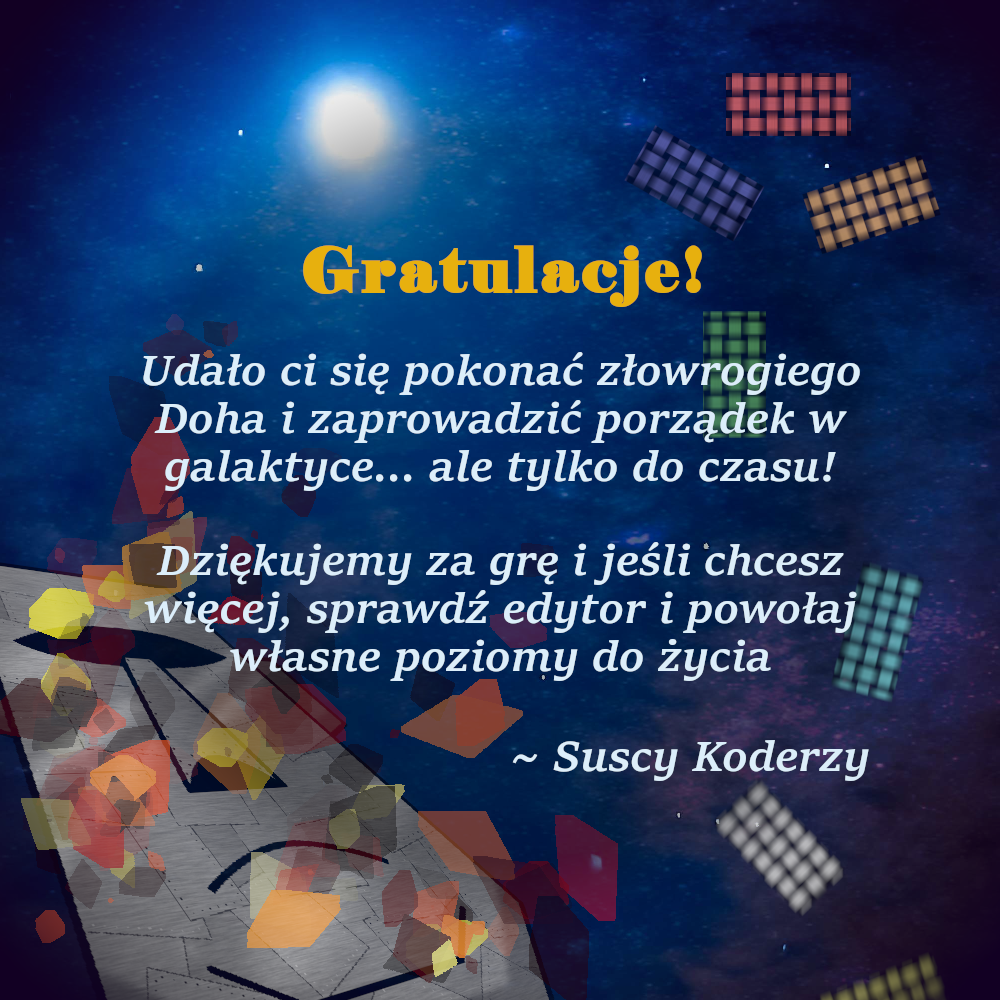
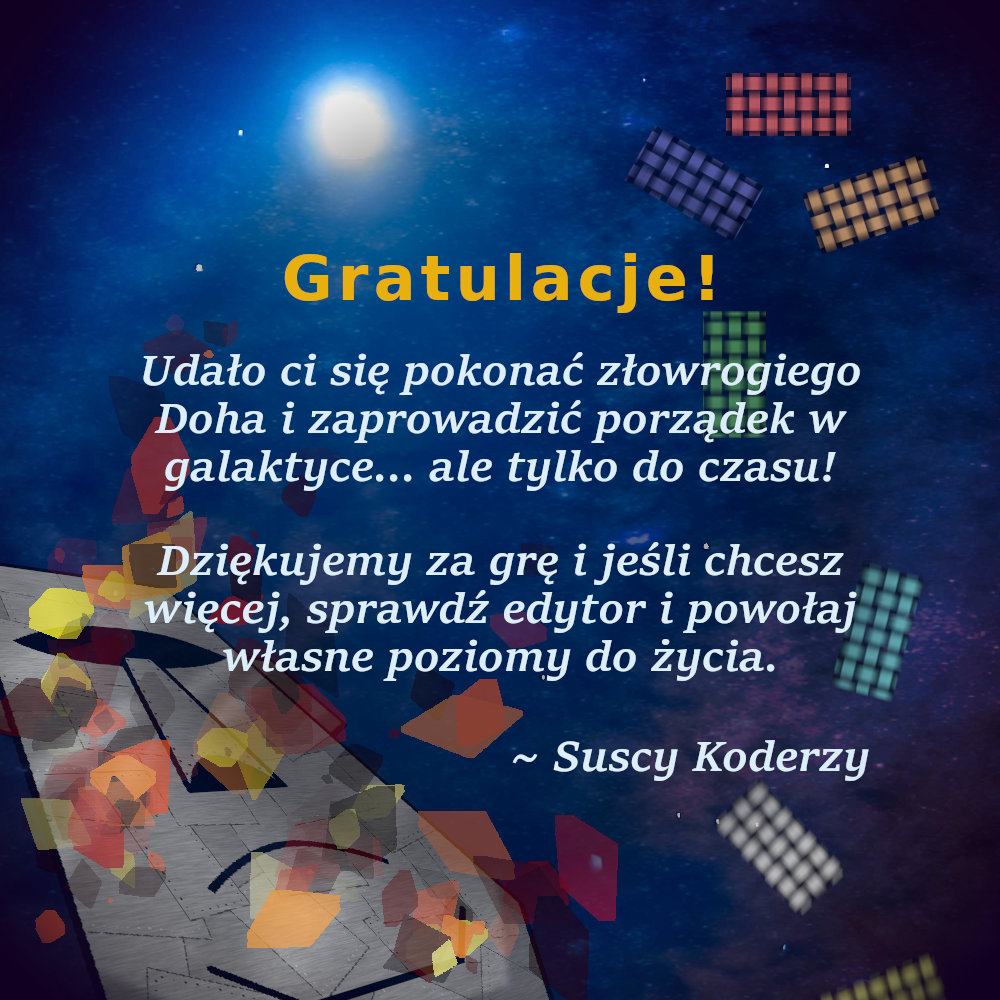
fixy, ekran konca gry ~ nocna zmiana :)

Changed region(s): [[0.279, 0.248, 0.713, 0.31], [0.217, 0.62, 0.775, 0.682]]

diff --git a/script.js b/script.js
@@ -308,9 +308,13 @@ function restartTheGame() {
         resetToDefault()
 }
 // ==================================================================================================== //
-// TODO: funkcja victory
+// Wyświetla ekran końcowy i restartuje grę
 function victory() {
-
+        document.querySelector("#victory").style.display = "grid";
+        document.querySelector("#victory").addEventListener("click", () => {
+                document.querySelector("#victory").style.display = "none";
+                restartTheGame()
+        })
 }
 
 
@@ -1263,8 +1267,7 @@ function rectXrectCollision(obj1, obj2) {
         return colData;
 }
 
-function circXrectCollision(circ, rect)
-{
+function circXrectCollision(circ, rect) {
         if (circ == null || rect == null)
                 return null;
 
@@ -1273,54 +1276,51 @@ function circXrectCollision(circ, rect)
         let testX, testY;
         testX = circ.pos.x + circ.radius;
         testY = circ.pos.y + circ.radius;
-    
-        if (circ.pos.x + circ.radius < rect.pos.x)         
-            testX = rect.pos.x;
-        else if (circ.pos.x + circ.radius > rect.pos.x + rect.size.x) 
-            testX = rect.pos.x + rect.size.x;
-        
-        if (circ.pos.y + circ.radius < rect.pos.y)         
-            testY = rect.pos.y;
-        else if (circ.pos.y + circ.radius > rect.pos.y + rect.size.y) 
-            testY = rect.pos.y + rect.size.y;
-    
+
+        if (circ.pos.x + circ.radius < rect.pos.x)
+                testX = rect.pos.x;
+        else if (circ.pos.x + circ.radius > rect.pos.x + rect.size.x)
+                testX = rect.pos.x + rect.size.x;
+
+        if (circ.pos.y + circ.radius < rect.pos.y)
+                testY = rect.pos.y;
+        else if (circ.pos.y + circ.radius > rect.pos.y + rect.size.y)
+                testY = rect.pos.y + rect.size.y;
+
         let distX, distY;
         distX = circ.pos.x + circ.radius - testX;
         distY = circ.pos.y + circ.radius - testY;
-        
+
         let dist = Math.sqrt((distX * distX) + (distY * distY));
 
-        let aboveAC = ((rect.pos.x - (rect.pos.x + rect.size.x)) * ((circ.pos.y + circ.radius) - (rect.pos.y + rect.size.y))   -   (rect.pos.y - (rect.pos.y + rect.size.y)) * ((circ.pos.x + circ.radius) - (rect.pos.x + rect.size.x))) > 0
-        let aboveDB = ((rect.pos.x - (rect.pos.x + rect.size.x)) * ((circ.pos.y + circ.radius) - rect.pos.y)   -   ((rect.pos.y + rect.size.y) - rect.pos.y) * ((circ.pos.x + circ.radius) - (rect.pos.x + rect.size.x))) > 0
+        let aboveAC = ((rect.pos.x - (rect.pos.x + rect.size.x)) * ((circ.pos.y + circ.radius) - (rect.pos.y + rect.size.y)) - (rect.pos.y - (rect.pos.y + rect.size.y)) * ((circ.pos.x + circ.radius) - (rect.pos.x + rect.size.x))) > 0
+        let aboveDB = ((rect.pos.x - (rect.pos.x + rect.size.x)) * ((circ.pos.y + circ.radius) - rect.pos.y) - ((rect.pos.y + rect.size.y) - rect.pos.y) * ((circ.pos.x + circ.radius) - (rect.pos.x + rect.size.x))) > 0
 
         let side = 'none';
         let hit = false;
 
-        if (dist <= circ.radius)
-        {
-            if (aboveAC)
-            {
-                if (aboveDB)
-                    side = 'top';
-                else
-                    side = 'right';
-            }
-            else
-            {
-                if (aboveDB)
-                    side = 'left';
-                else
-                    side = 'bottom';
-            }
+        if (dist <= circ.radius) {
+                if (aboveAC) {
+                        if (aboveDB)
+                                side = 'top';
+                        else
+                                side = 'right';
+                }
+                else {
+                        if (aboveDB)
+                                side = 'left';
+                        else
+                                side = 'bottom';
+                }
 
-            hit = true;
+                hit = true;
         }
-            
+
         colData.side = side;
         colData.hit = hit;
         // colData.hitFactor = (obj1.pos.x - (obj2.pos.x + obj2.size.x / 2)) / obj2.size.x
         colData.hitFactor = (circ.pos.x - (rect.pos.x + rect.size.x / 2)) / rect.size.x
-        
+
         return colData;
 }
 // ==================================================================================================== //
@@ -1340,9 +1340,7 @@ function gameLoop(cTime) {
         if (gamePaused && !gameOvered && gameStarted) {
                 let texture = new Image()
                 texture.src = "img/gamePaused.png"
-                context.clearRect(796, canvas.height - 1500, 3408, 852) // FIXME: Jeśli chcieć zrobić bez dublowania brodera napisu, ale pilke (texture) moze ucinac
-                context.drawImage(texture, 796, canvas.height - 1500, 3408, 852)
-                // TODO: Naprawić border
+                context.drawImage(texture, 159.2, canvas.height - 300, 681, 170.4)
         }
 
         window.requestAnimationFrame(gameLoop) // Kontynuacja game loopa
@@ -1499,12 +1497,10 @@ function draw() {
 
 
 
-function updateStaticCanvas()
-{
+function updateStaticCanvas() {
         contextStatic.clearRect(0, 0, staticCanvas.width, staticCanvas.height);
 
-        if (playerHealth > 0)
-        {
+        if (playerHealth > 0) {
                 DOH.list.forEach((el) => el.draw());
                 MiniDOH.list.forEach((el) => el.draw());
 
@@ -1520,17 +1516,21 @@ function updateStaticCanvas()
                 contextStatic.fillText(`${playerPoints}💎`, staticCanvas.width / 50, staticCanvas.height / 15.625) // Punkty
 
                 contextStatic.fillStyle = '#f8312f';
-                contextStatic.fillText(`${playerHealth}❤`, staticCanvas.width - staticCanvas.width / 9, staticCanvas.height / 15.625) // Życie
+                if (playerHealth < 10)
+                        contextStatic.fillText(`${playerHealth}❤`, staticCanvas.width - staticCanvas.width / 9, staticCanvas.height / 15.625) // Życie
+                else
+                        contextStatic.fillText(`${playerHealth}❤`, staticCanvas.width - staticCanvas.width / 7.6, staticCanvas.height / 15.625) // Życie
 
                 //Pasek życia DOH'a
                 if (DOH.list.length > 0) {
                         let doh = DOH.list[0];
 
                         contextStatic.fillStyle = '#0e0a24';
-                        contextStatic.fillRect(staticCanvas.width * 0.2, staticCanvas.height / 15.625 - staticCanvas.height / 18.5, staticCanvas.width * 0.6, staticCanvas.height / 18.5);
+                        contextStatic.fillRect(staticCanvas.width * 0.2 + 8, staticCanvas.height / 15.625 - staticCanvas.height / 18.5, staticCanvas.width * 0.6 - 15, staticCanvas.height / 18.5);
 
                         if (doh.minionsNum > 0) contextStatic.fillStyle = '#0089c4'; else contextStatic.fillStyle = '#de4f35';
-                        contextStatic.fillRect(staticCanvas.width * 0.2 + 25, staticCanvas.height / 15.625 - staticCanvas.height / 18.5 + 25, (staticCanvas.width * 0.6 - 50) * (doh.hp / 20), staticCanvas.height / 18.5 - 50);
+
+                        contextStatic.fillRect(staticCanvas.width * 0.2 + 25, staticCanvas.height / 15.625 - staticCanvas.height / 18.5 + 10, (staticCanvas.width * 0.6 - 50) * (doh.hp / 20), staticCanvas.height / 18.5 - 20);
                 }
         }
 

diff --git a/styleMain.css b/styleMain.css
@@ -114,7 +114,7 @@ body {
 }
 
 
-#helpScreen{
+#helpScreen, #victory{
     position: absolute;
     top: 0%;
     left: 0;
@@ -124,8 +124,11 @@ body {
     z-index: 3;
     display: none;
 }
-#helpScreen > img{
+:is(#helpScreen, #victory) > img{
     width: 100%;
     height: 100%;
     object-fit: contain;
+}
+#victory{
+    z-index: 4;    
 }

diff --git a/index.html b/index.html
@@ -33,6 +33,9 @@
         <div id="helpScreen">
             <img src="img/helpScreen.jpg" alt="Fabuła i sterowanie">
         </div>
+        <div id="victory">
+            <img src="img/endSreen.png" alt="Ekran końcowy">
+        </div>  
     </div>
     <script src="script.js"></script>
 </body>
